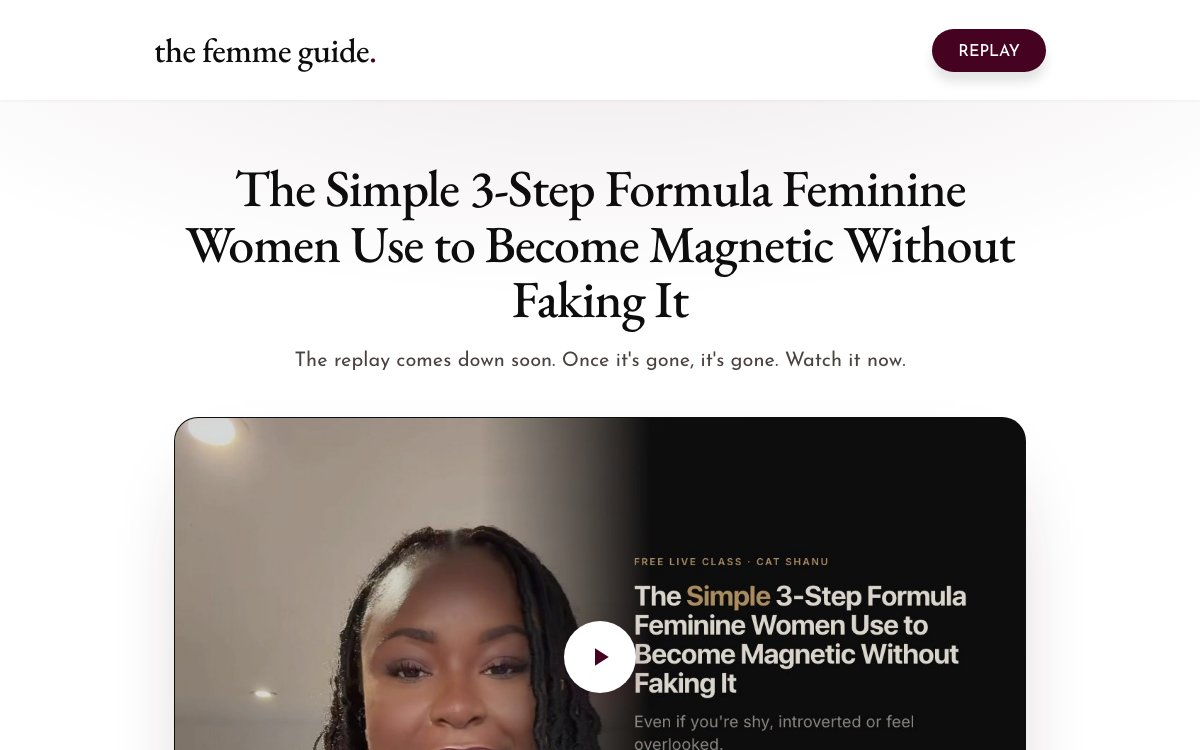
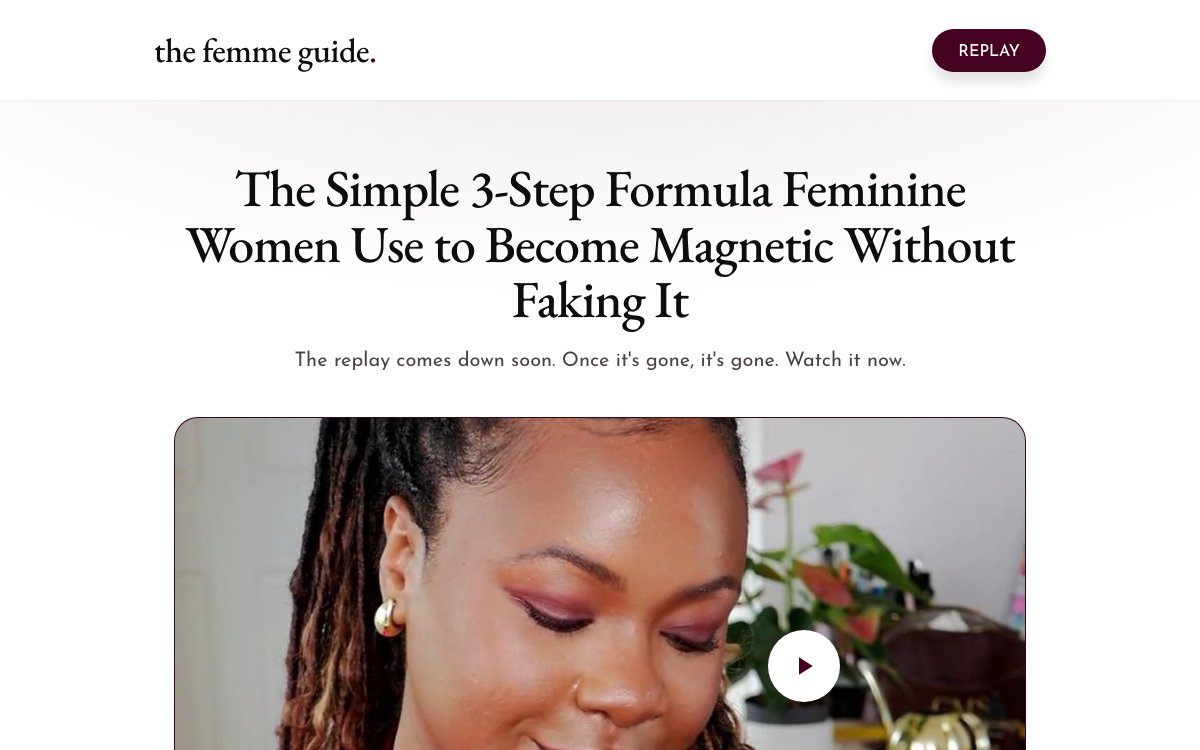
Replay poster: full-bleed photo of Cat, no dark panel

Changed region(s): [[0.1233, 0.552, 0.8633, 1.0]]

diff --git a/index.html b/index.html
@@ -196,7 +196,7 @@
               <span class="pcard__body"><span><span class="pcard__kicker">Step 2 · Show up</span><span class="pcard__title">Your thank-you page</span><span class="pcard__desc">A short video from you, a calendar add, a reply-yes email and the WhatsApp group where the e-book lands.</span></span><span class="pcard__link">Open preview <span class="arrow" aria-hidden="true"></span></span></span>
             </button>
             <button class="pcard reveal" data-title="Your replay page" data-embed="replay/?v=20">
-              <span class="thumb"><span class="thumb__bar"><i></i><i></i><i></i><span class="thumb__url">thefemmeguide.mykajabi.com/replay</span></span><img class="thumb__img" src="assets/img/replay-preview.jpg?v=21" alt="Your replay page preview" loading="lazy" /></span>
+              <span class="thumb"><span class="thumb__bar"><i></i><i></i><i></i><span class="thumb__url">thefemmeguide.mykajabi.com/replay</span></span><img class="thumb__img" src="assets/img/replay-preview.jpg?v=22" alt="Your replay page preview" loading="lazy" /></span>
               <span class="pcard__body"><span><span class="pcard__kicker">Step 3 · Apply</span><span class="pcard__title">Your replay page</span><span class="pcard__desc">The replay, then a short application that books a call with you on the spot: &ldquo;See if you qualify&rdquo;.</span></span><span class="pcard__link">Open preview <span class="arrow" aria-hidden="true"></span></span></span>
             </button>
           </div>

diff --git a/replay/index.html b/replay/index.html
@@ -309,7 +309,7 @@
       <h1>The Simple 3-Step Formula Feminine Women Use to Become Magnetic Without Faking It</h1>
       <p class="lead">The replay comes down soon. Once it's gone, it's gone. Watch it now.</p>
       <div class="replay-frame">
-        <img src="../assets/img/replay-poster.jpg?v=2" alt="Replay: The Simple 3-Step Formula" style="position:absolute;inset:0;width:100%;height:100%;object-fit:cover"><span class="vplay" style="position:absolute;left:25%;top:80%;transform:translate(-50%,-50%)"><svg width="30" height="30" viewBox="0 0 24 24" fill="currentColor"><path d="M8 5v14l11-7z"/></svg></span>
+        <img src="../assets/img/replay-poster.jpg?v=3" alt="Replay: The Simple 3-Step Formula" style="position:absolute;inset:0;width:100%;height:100%;object-fit:cover"><span class="vplay" style="position:absolute;left:74%;top:52%;transform:translate(-50%,-50%)"><svg width="30" height="30" viewBox="0 0 24 24" fill="currentColor"><path d="M8 5v14l11-7z"/></svg></span>
         
       </div>
     </div>
